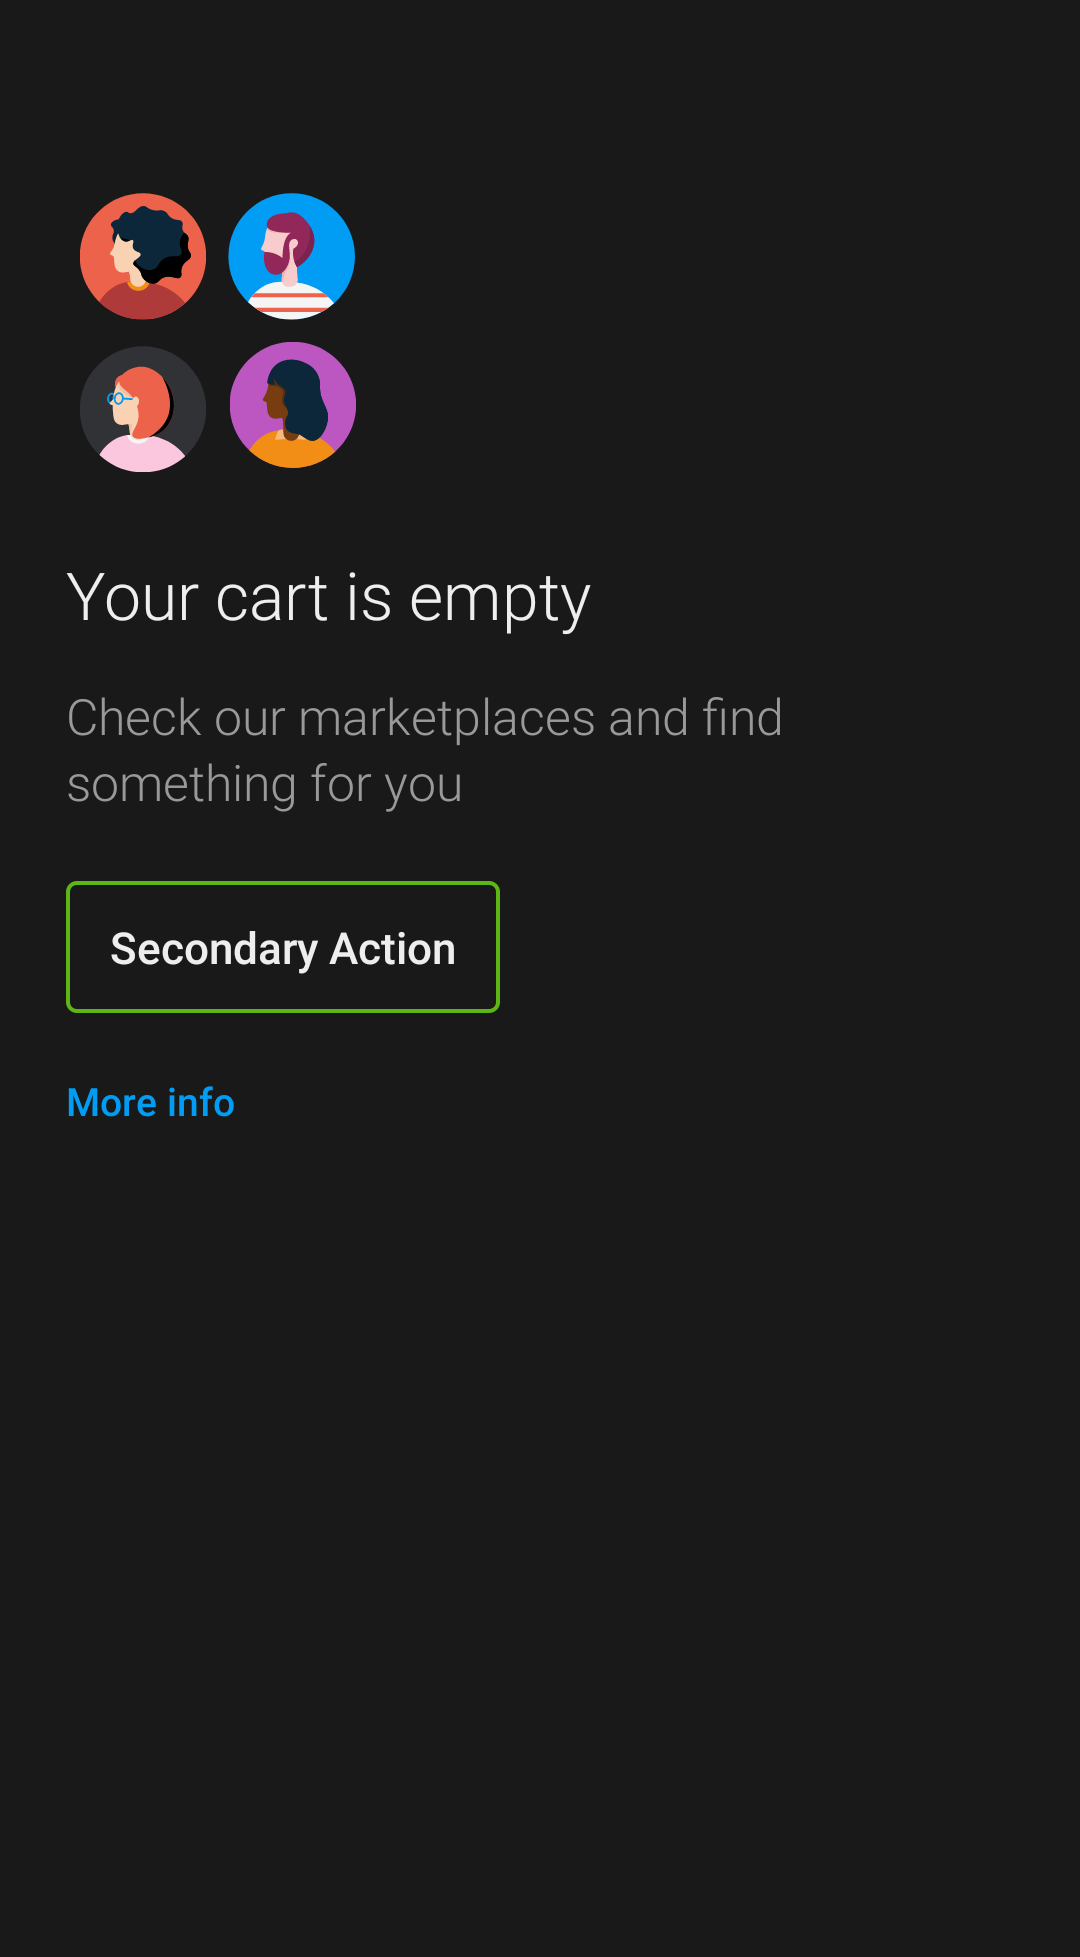
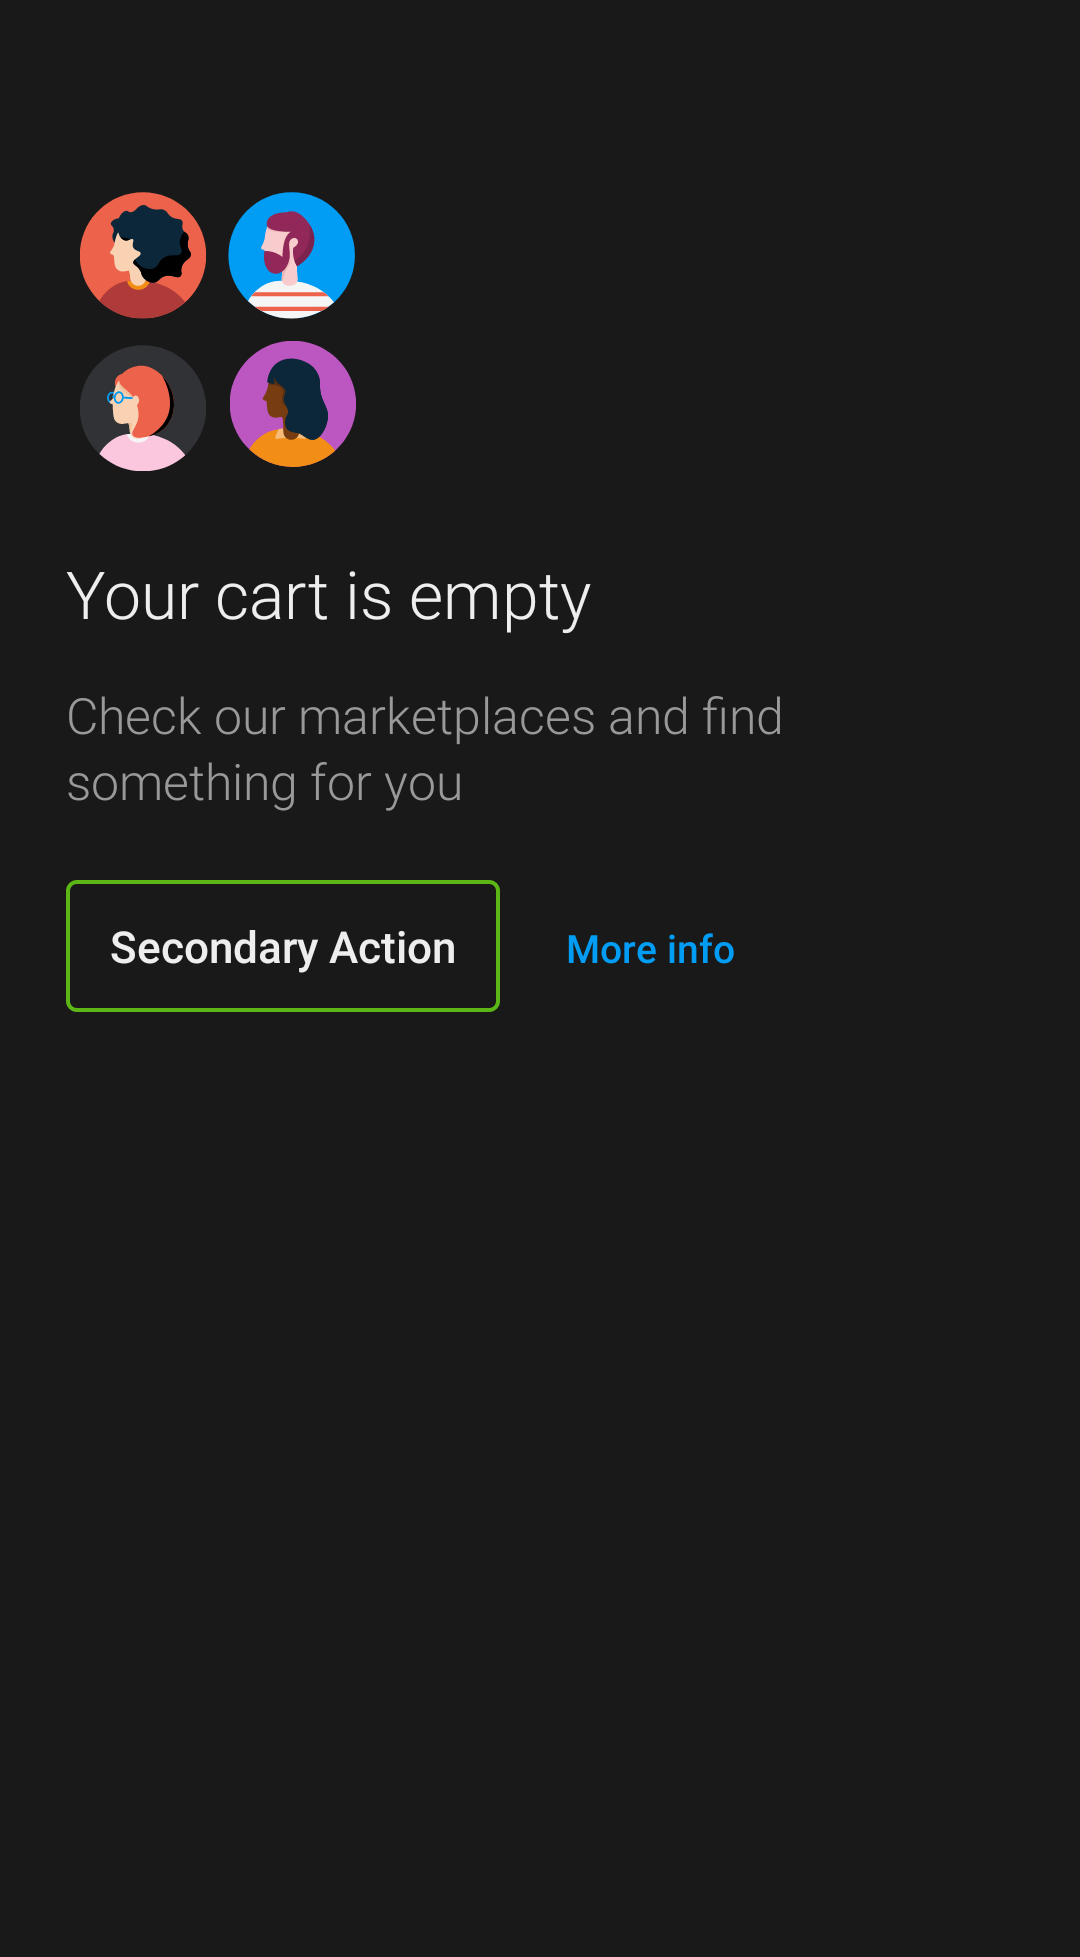
ANDROID-9848 Use a horizontal layout for buttons empty state component buttons

diff --git a/library/src/main/java/com/telefonica/mistica/emptystate/screen/EmptyStateScreenView.kt b/library/src/main/java/com/telefonica/mistica/emptystate/screen/EmptyStateScreenView.kt
@@ -91,7 +91,6 @@ class EmptyStateScreenView @JvmOverloads constructor(
         BUTTONS_CONFIG_NONE,
         BUTTONS_CONFIG_PRIMARY,
         BUTTONS_CONFIG_PRIMARY_LINK,
-        BUTTONS_CONFIG_PRIMARY_SECONDARY,
         BUTTONS_CONFIG_SECONDARY,
         BUTTONS_CONFIG_SECONDARY_LINK,
     )
@@ -108,6 +107,7 @@ class EmptyStateScreenView @JvmOverloads constructor(
     private var image: ImageView
     private var title: TextView
     private var subtitle: TextView
+    private var buttonsContainer: LinearLayout
     private var primaryButton: Button
     private var secondaryButton: Button
     private var linkButton: Button
@@ -118,6 +118,7 @@ class EmptyStateScreenView @JvmOverloads constructor(
         image = findViewById(R.id.empty_state_screen_image)
         title = findViewById(R.id.empty_state_screen_title)
         subtitle = findViewById(R.id.empty_state_screen_subtitle)
+        buttonsContainer = findViewById(R.id.buttons_container)
         primaryButton = findViewById(R.id.empty_state_screen_primary_button)
         secondaryButton = findViewById(R.id.empty_state_screen_secondary_button)
         linkButton = findViewById(R.id.empty_state_screen_link_button)
@@ -178,15 +179,20 @@ class EmptyStateScreenView @JvmOverloads constructor(
     }
 
     fun setButtonsConfig(@ButtonsConfig buttonsConfig: Int) {
+        if (buttonsConfig == BUTTONS_CONFIG_NONE) {
+            buttonsContainer.visibility = View.GONE
+            return
+        }
+
+        buttonsContainer.visibility = View.VISIBLE
+
         primaryButton.visibility = when (buttonsConfig) {
             BUTTONS_CONFIG_PRIMARY,
             BUTTONS_CONFIG_PRIMARY_LINK,
-            BUTTONS_CONFIG_PRIMARY_SECONDARY,
             -> View.VISIBLE
             else -> View.GONE
         }
         secondaryButton.visibility = when (buttonsConfig) {
-            BUTTONS_CONFIG_PRIMARY_SECONDARY,
             BUTTONS_CONFIG_SECONDARY,
             BUTTONS_CONFIG_SECONDARY_LINK,
             -> View.VISIBLE
@@ -197,14 +203,6 @@ class EmptyStateScreenView @JvmOverloads constructor(
             BUTTONS_CONFIG_SECONDARY_LINK,
             -> View.VISIBLE
             else -> View.GONE
-        }
-
-        secondaryButton.layoutParams = (secondaryButton.layoutParams as LinearLayout.LayoutParams).apply {
-            topMargin = when (buttonsConfig) {
-                BUTTONS_CONFIG_SECONDARY,
-                BUTTONS_CONFIG_SECONDARY_LINK -> context.convertDpToPx(24)
-                else -> context.convertDpToPx(16)
-            }
         }
     }
 
@@ -257,7 +255,6 @@ class EmptyStateScreenView @JvmOverloads constructor(
         const val BUTTONS_CONFIG_NONE = 0
         const val BUTTONS_CONFIG_PRIMARY = 1
         const val BUTTONS_CONFIG_PRIMARY_LINK = 2
-        const val BUTTONS_CONFIG_PRIMARY_SECONDARY = 3
         const val BUTTONS_CONFIG_SECONDARY = 4
         const val BUTTONS_CONFIG_SECONDARY_LINK = 5
 

diff --git a/catalog/src/main/java/com/telefonica/mistica/catalog/ui/ComponentCatalogActivity.kt b/catalog/src/main/java/com/telefonica/mistica/catalog/ui/ComponentCatalogActivity.kt
@@ -43,7 +43,7 @@ class ComponentCatalogActivity : AppCompatActivity() {
             Section.CONTROLS -> ControlsCatalogFragment()
             Section.STEPPERS -> SteppersCatalogFragment()
             Section.TABS -> TabsCatalogFragment()
-            Section.EMPTY_STATE_SCREEN -> EmptyStateScreenCatalogFragment(themeOverride)
+            Section.EMPTY_STATE -> EmptyStateScreenCatalogFragment(themeOverride)
             Section.EMPTY_STATE_CARD -> EmptyStateCardCatalogFragment()
             Section.CALLOUTS -> CalloutsCatalogFragment()
             else -> OthersCatalogFragment()
@@ -82,7 +82,7 @@ enum class Section {
     OTHERS,
     STEPPERS,
     TABS,
-    EMPTY_STATE_SCREEN,
+    EMPTY_STATE,
     EMPTY_STATE_CARD,
     CALLOUTS,
 }

diff --git a/catalog/src/main/java/com/telefonica/mistica/catalog/ui/CatalogMainActivity.kt b/catalog/src/main/java/com/telefonica/mistica/catalog/ui/CatalogMainActivity.kt
@@ -98,7 +98,7 @@ class CatalogMainActivity : AppCompatActivity() {
             SectionItem("Others", R.drawable.ic_others, Section.OTHERS),
             SectionItem("Steppers", R.drawable.ic_stepper, Section.STEPPERS),
             SectionItem("Tabs", R.drawable.ic_tab, Section.TABS),
-            SectionItem("Empty State Screen", R.drawable.ic_empty_states, Section.EMPTY_STATE_SCREEN),
+            SectionItem("Empty State", R.drawable.ic_empty_states, Section.EMPTY_STATE),
             SectionItem("Empty State Card", R.drawable.ic_empty_states, Section.EMPTY_STATE_CARD),
             SectionItem("Tabs", R.drawable.ic_tab, Section.TABS),
             SectionItem("Callouts", R.drawable.ic_callout, Section.CALLOUTS),

diff --git a/catalog/src/main/java/com/telefonica/mistica/catalog/ui/fragment/EmptyStateScreenCatalogFragment.kt b/catalog/src/main/java/com/telefonica/mistica/catalog/ui/fragment/EmptyStateScreenCatalogFragment.kt
@@ -104,7 +104,6 @@ class EmptyStateScreenCatalogFragment(
         BUTTONS_CONFIG_NONE(EmptyStateScreenView.BUTTONS_CONFIG_NONE),
         BUTTONS_CONFIG_PRIMARY(EmptyStateScreenView.BUTTONS_CONFIG_PRIMARY),
         BUTTONS_CONFIG_PRIMARY_LINK(EmptyStateScreenView.BUTTONS_CONFIG_PRIMARY_LINK),
-        BUTTONS_CONFIG_PRIMARY_SECONDARY(EmptyStateScreenView.BUTTONS_CONFIG_PRIMARY_SECONDARY),
         BUTTONS_CONFIG_SECONDARY(EmptyStateScreenView.BUTTONS_CONFIG_SECONDARY),
         BUTTONS_CONFIG_SECONDARY_LINK(EmptyStateScreenView.BUTTONS_CONFIG_SECONDARY_LINK),
     }

diff --git a/README.md b/README.md
@@ -88,7 +88,7 @@ Just set your App or any specific activity to use any of the following:
 * [Data Cards](library/src/main/java/com/telefonica/mistica/card/datacard)
 * [Steppers](library/src/main/java/com/telefonica/mistica/stepper)
 * [Tabs](library/src/main/java/com/telefonica/mistica/tabs)
-* [Empty State Screens](library/src/main/java/com/telefonica/mistica/emptystate/screen)
+* [Empty States](library/src/main/java/com/telefonica/mistica/emptystate/screen)
 * [Empty State Cards](library/src/main/java/com/telefonica/mistica/emptystate/card)
 * [Callout](library/src/main/java/com/telefonica/mistica/callout)
 

diff --git a/library/src/main/java/com/telefonica/mistica/emptystate/screen/README.md b/library/src/main/java/com/telefonica/mistica/emptystate/screen/README.md
@@ -1,11 +1,11 @@
-# Empty State Screens
+# Empty States
 
 <p align="left">
     <img height=400 src="../../../../../../../../../doc/images/empty_states/screens/empty_state_screen_1.png" />
     <img height=400 src="../../../../../../../../../doc/images/empty_states/screens/empty_state_screen_2.png" />
 </p>
 
-Empty State Screens require a minimum content of **an image and a
+Empty States require a minimum content of **an image and a
 title**
 
 Implemented as a custom view,
